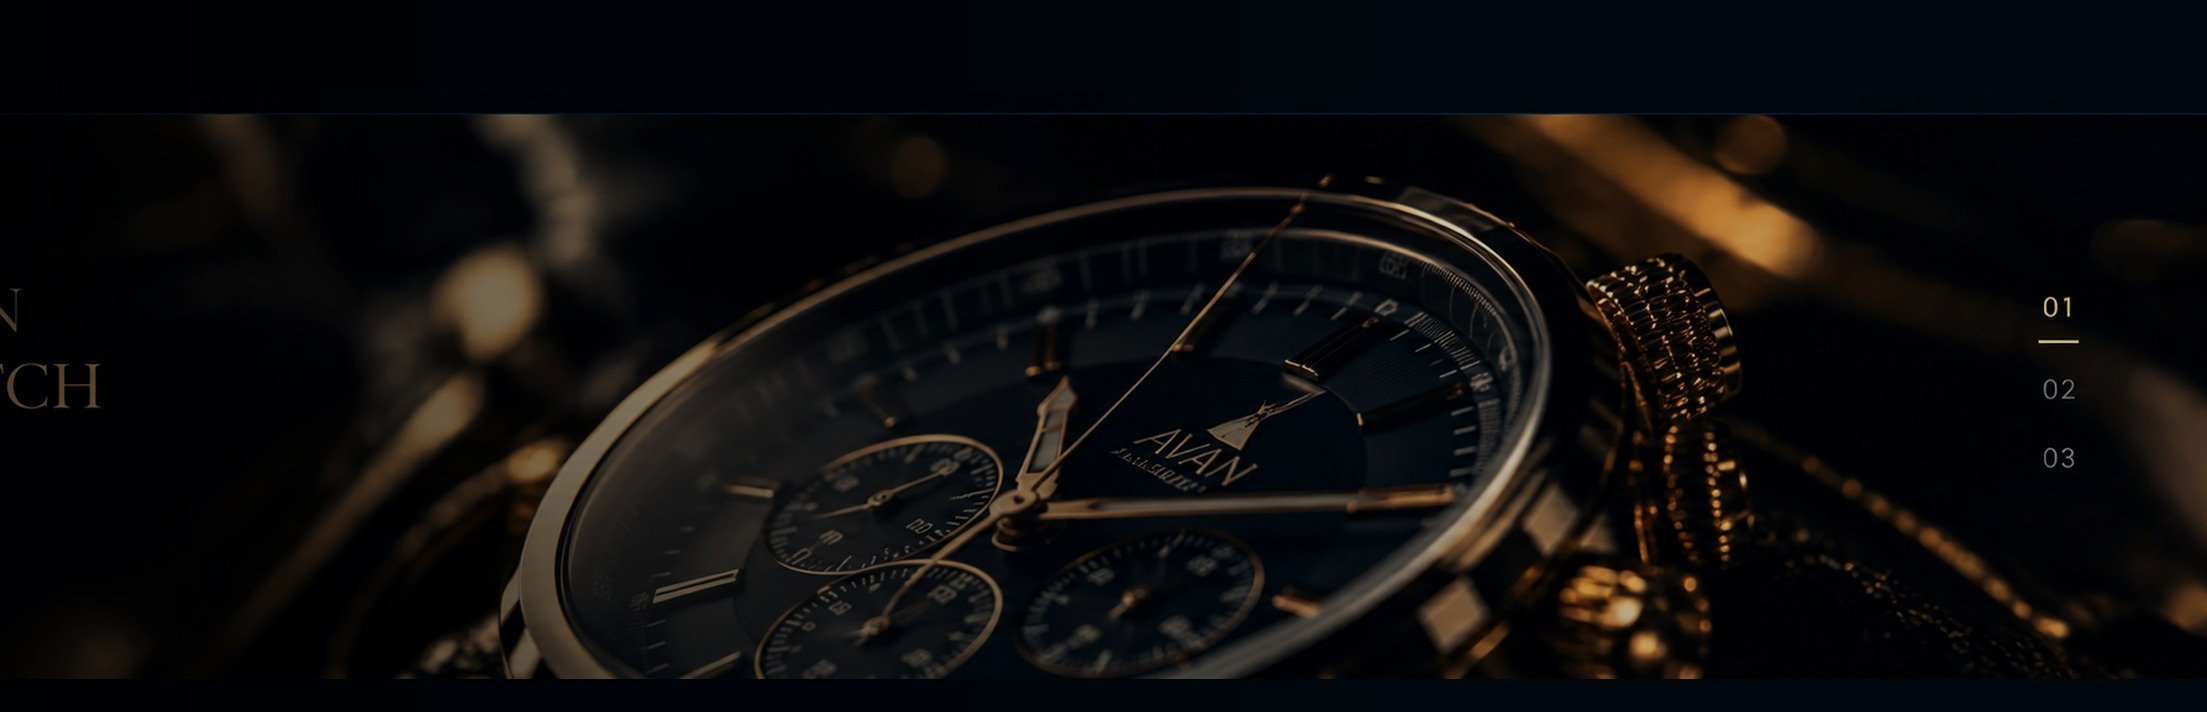
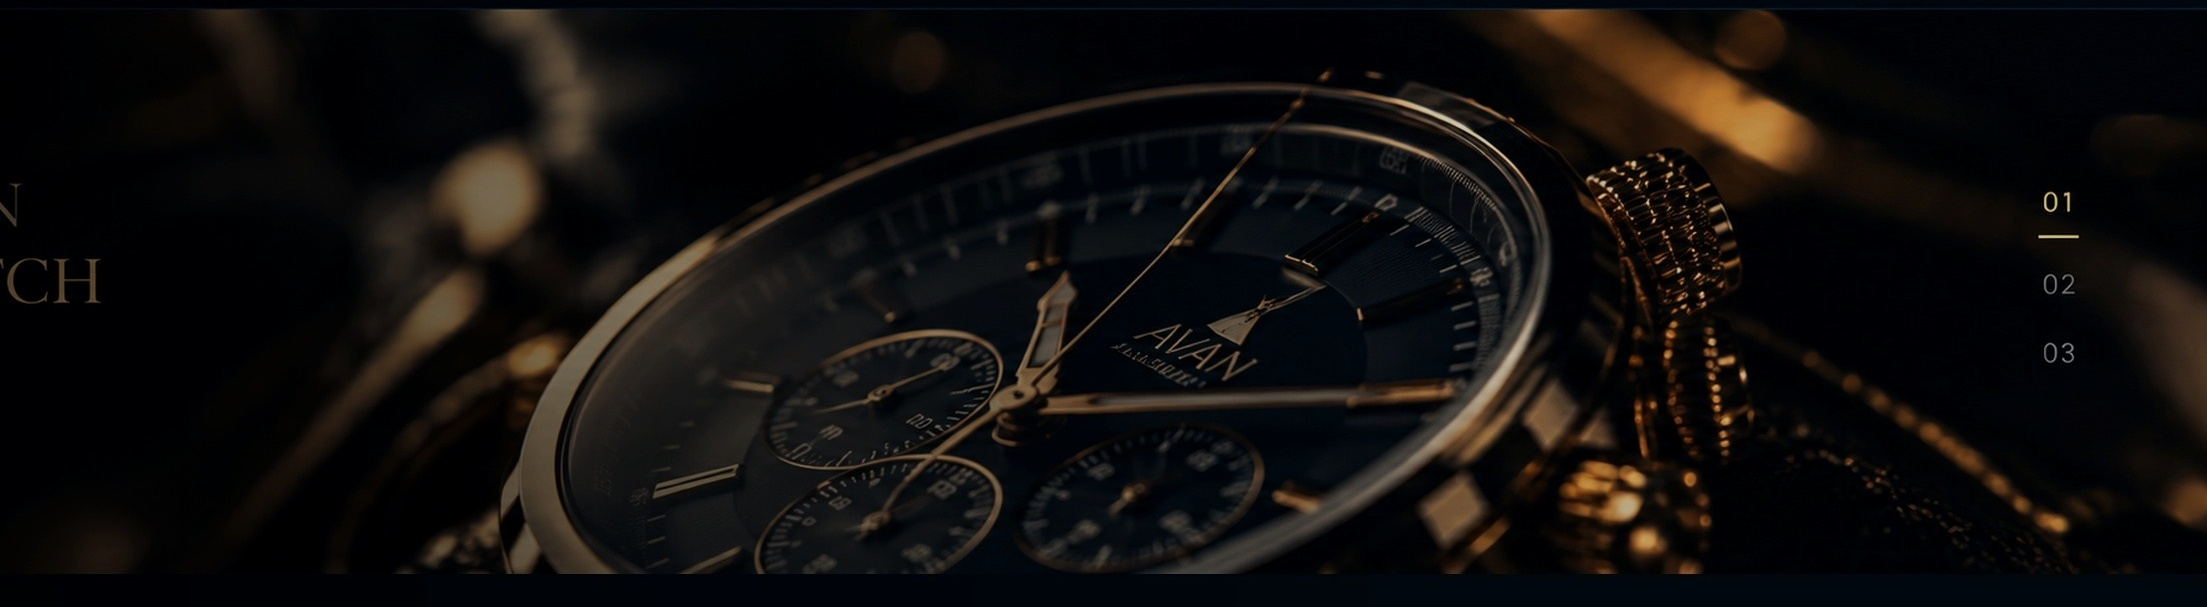
Add files via upload

diff --git a/index.html b/index.html
@@ -13,13 +13,12 @@
 
 <header class="site-header">
   <div class="service-bar">
-    <button class="service-card" data-action="support"><span>♧</span><strong>پشتیبانی ۲۴ ساعته</strong><small>همیشه در کنار شما</small></button>
-    <button class="service-card" data-action="shipping"><span>▰</span><strong>ارسال رایگان</strong><small>برای سفارشهای بالای ۲ میلیون</small></button>
-    <button class="service-card" data-action="authenticity"><span>♢</span><strong>تضمین اصالت کالا</strong><small>با خیال راحت خرید کنید</small></button>
-    <button class="service-card" data-action="return"><span>□</span><strong>۷ روز ضمانت بازگشت</strong><small>بدون قید و شرط</small></button>
-    <button class="slogan" data-action="about">زمان تنها چیزیست که دوباره برنمیگردد ... <b>◇</b></button>
-  </div>
-
+<button class="slogan" data-action="about"><span class="service-icon slogan-icon"><svg viewBox="0 0 24 24"><path d="M12 3v5m0 8v5M3 12h5m8 0h5M5.7 5.7l3.5 3.5m5.6 5.6 3.5 3.5m0-12.6-3.5 3.5m-5.6 5.6-3.5 3.5"/></svg></span><span class="slogan-text">زمان تنها چیزیست که دوباره برنمیگردد ...</span></button>
+<button class="service-card" data-action="return"><span class="service-icon"><svg viewBox="0 0 24 24"><path d="M12 3 20 6v5c0 5-3.2 8.4-8 10-4.8-1.6-8-5-8-10V6l8-3Z"/><path d="M8.5 12.2 11 14.7l4.8-5"/></svg></span><span><strong>۷ روز ضمانت بازگشت</strong><small>بدون قید و شرط</small></span></button>
+<button class="service-card" data-action="authenticity"><span class="service-icon"><svg viewBox="0 0 24 24"><path d="M12 3 20 6v5c0 5-3.2 8.4-8 10-4.8-1.6-8-5-8-10V6l8-3Z"/><path d="M8.5 12.2 11 14.7l4.8-5"/></svg></span><span><strong>تضمین اصالت کالا</strong><small>با خیال راحت خرید کنید</small></span></button>
+<button class="service-card" data-action="shipping"><span class="service-icon"><svg viewBox="0 0 24 24"><path d="M3 6h11v10H3zM14 10h4l3 3v3h-7z"/><circle cx="7" cy="18" r="2"/><circle cx="18" cy="18" r="2"/></svg></span><span><strong>ارسال رایگان</strong><small>برای سفارشهای بالای ۲ میلیون</small></span></button>
+<button class="service-card" data-action="support"><span class="service-icon"><svg viewBox="0 0 24 24"><path d="M4 13v-1a8 8 0 0 1 16 0v1"/><path d="M4 13h3v6H5a1 1 0 0 1-1-1zM20 13h-3v6h2a1 1 0 0 0 1-1z"/><path d="M12 20h2"/></svg></span><span><strong>پشتیبانی ۲۴ ساعته</strong><small>همیشه در کنار شما</small></span></button>
+</div>
 <div class="main-nav v7-nav">
   <a class="logo" href="#home" aria-label="AVAN GALLERY">
     <div class="logo-main"><span class="logo-ring">AVAN</span><strong>آوان</strong></div>

diff --git a/style.css b/style.css
@@ -205,3 +205,15 @@ nav{order:2;display:flex;align-items:center;gap:25px;white-space:nowrap}nav a,na
   .main-nav .header-search{order:7!important}
   .hero{height:calc(100vh - 130px)!important;min-height:600px!important}
 }
+
+/* V10: RTL service strip and zero-gap hero */
+.service-bar{direction:rtl!important;height:66px!important;padding:0 3.5%!important;display:flex!important;flex-direction:row!important;align-items:stretch!important;justify-content:space-between!important;gap:0!important;background:linear-gradient(180deg,#061d31,#031624)!important;border-bottom:1px solid rgba(225,185,94,.14)!important}
+.service-card,.slogan{direction:rtl!important;flex:1 1 0!important;min-width:0!important;max-width:none!important;margin:0!important;padding:0 22px!important;display:flex!important;align-items:center!important;justify-content:center!important;gap:12px!important;color:#fff!important;background:transparent!important;border:0!important;border-left:1px solid rgba(255,255,255,.06)!important;border-radius:0!important;cursor:pointer}
+.service-bar .slogan{order:1!important;justify-content:flex-start!important;flex:1.25 1 0!important}
+.service-bar .service-card[data-action="return"]{order:2!important}.service-bar .service-card[data-action="authenticity"]{order:3!important}.service-bar .service-card[data-action="shipping"]{order:4!important}.service-bar .service-card[data-action="support"]{order:5!important;border-left:0!important}
+.service-icon{width:31px!important;height:31px!important;flex:0 0 31px!important;display:grid!important;place-items:center!important;color:#e9bd58!important}
+.service-icon svg{width:25px!important;height:25px!important;fill:none!important;stroke:currentColor!important;stroke-width:1.55!important;stroke-linecap:round!important;stroke-linejoin:round!important}
+.service-card>span:last-child{display:flex!important;flex-direction:column!important;align-items:flex-start!important;gap:3px!important}.service-card strong{font-size:11px!important;color:#f6f7f8!important;white-space:nowrap}.service-card small{font-size:8px!important;color:#8fa3b3!important;white-space:nowrap}.slogan-text{font-size:10px!important;font-weight:600!important;white-space:nowrap}.slogan-icon{width:27px!important;height:27px!important}.slogan-icon svg{width:21px!important;height:21px!important}
+.main-nav,.hero,.site-header{margin-top:0!important;margin-bottom:0!important}.hero{padding-top:0!important;border:0!important}.hero-art{top:0!important;margin:0!important}
+@media(max-width:1000px){.service-bar{padding:0 10px!important}.service-card,.slogan{padding:0 10px!important}.service-card small{display:none!important}.slogan-text{font-size:8px!important}}
+@media(max-width:700px){.slogan{display:none!important}.service-card{padding:0 7px!important}.service-card strong{font-size:9px!important}}

diff --git a/README.md b/README.md
@@ -1,6 +1,1 @@
-# AVAN GALLERY V9
-- هدر کاملاً راستبهچپ: لوگو و نام آوان در سمت راست، سپس دستهبندی/برند/فروشگاه/وبلاگ/درباره/تماس، سپس ورود/علاقهمندی/سبد خرید و در سمت چپ جستجو.
-- عکس Hero بلافاصله زیر منوی اصلی و بدون فاصله قرار دارد.
-- سه تصویر متفاوت ساعت: watch-1.jpg / watch-2.jpg / watch-3.jpg
-- اسلاید خودکار هر ۳ ثانیه + کنترل 01/02/03 و فلشها.
-- تصویرها داخل خود پروژه هستند.
+AVAN GALLERY V10 — نوار خدمات راستبهچپ با آیکونهای SVG، شعار در انتهای راست، سه ساعت بدون نوار سیاه بالای تصویر و Hero چسبیده به منوی اصلی.
